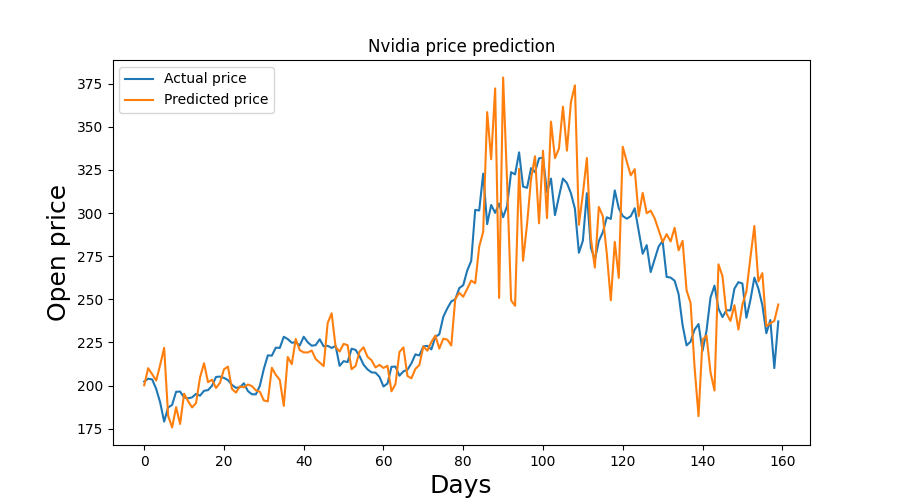
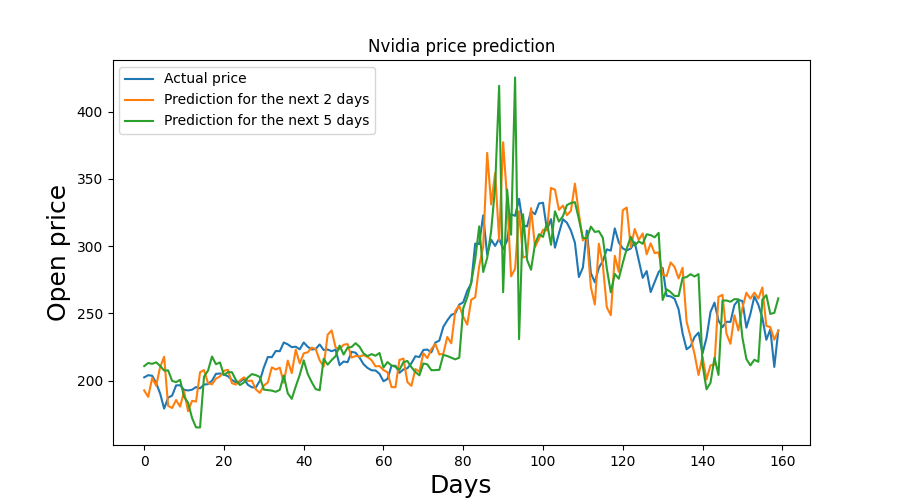
updated README

diff --git a/README.md b/README.md
@@ -16,9 +16,9 @@ Nvidia and QQQ (US-based tech index) stock prices between January 2015 and Febru
 
 The datasets are publicly available at MarketWatch in a downloadable .csv format in yearly chanks. 
 
-![Nvidia prices](https://github.com/barsimark/stock-price-predictor/blob/master/images/Nvidia-prices.png)
+![Nvidia prices](images/Nvidia-prices.png)
 
-![QQQ prices](https://github.com/barsimark/stock-price-predictor/blob/master/images/QQQ-prices.png)
+![QQQ prices](images/QQQ-prices.png)
 
 ## Models
 
@@ -30,8 +30,6 @@ Simple LSTM-based model to predict the prices of Nvidia stocks. This model will 
 - Hidden layers: multiple LSTM, and Dropout layers
 - Output: predicted stock price for the next day
 
-As it can be seen on the performance chart, this model cannot be used in free running mode, meaning that the prediction only makes sense for the next day.
-
 Performance on the test dataset:
 
 ![Basic model performance](images/Basic-model-prediction.png)
@@ -40,20 +38,27 @@ Performance on the test dataset:
 
 ![Basic model regression](images/Basic-model-regression-plot.png)
 
+As it can be seen on the performance chart, this model cannot be used in free running mode, meaning that the prediction only makes sense for the next day.
+
 ### ESN model
 
-Using pyESN Echo State Network(ESN) (https://github.com/cknd/pyESN) to give stock predictions.
+A relatively new approach to predicting stock prices is the use of Echo State Networks (ESN). These are a form of reservoir computing that utilizes RNNs with a sparsely connected hidden layer. It works particularly well when there is a great amount of uncertenty.
+
+For this model, the pyESN Echo State Network framework was used: https://github.com/cknd/pyESN
 
 Performance on the test dataset:
 
 ![ESN model prediction](images/ESN-model-prediction.png)
 
+The model clearly gives more accurate predictions for the shorter term. More than 5 days ahead starts to become unreliable, and it starts to oscillate out of controll if the forecase length is greater than 10.
+
 ## Plans for the future
 
-- Add new model with Nvidia and QQQ as inputs, and Nvidia prediction as output
-- Add new model utilizing other RNN-based approaches
+- Add baseline models: moving average, linear extrapolation
+- Add new LSTM model with Nvidia and QQQ as inputs, and Nvidia prediction as output
+- Optimize the hyperparameters of the ESN model
 - Compare the results of each model and determine the best
-- Give predictions for the future and use it in real trading
+- Use it in real trading (maybe not the best idea)
 
 ## Author
 
